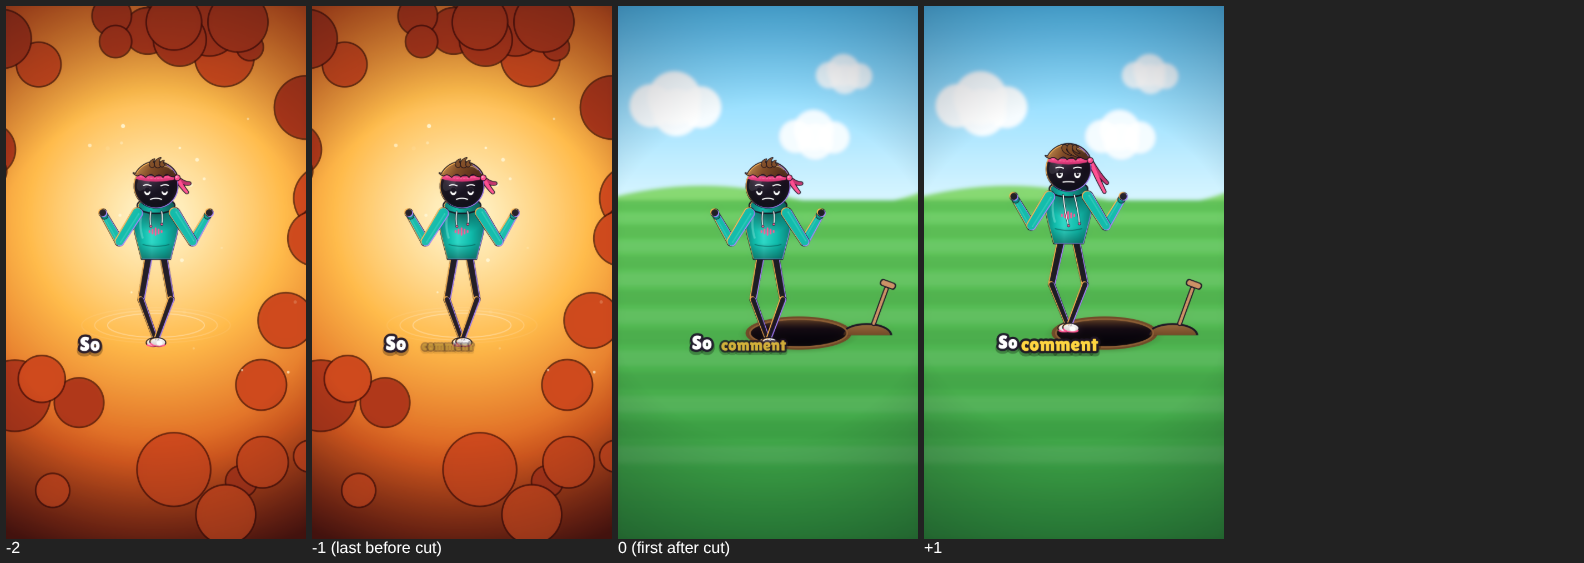
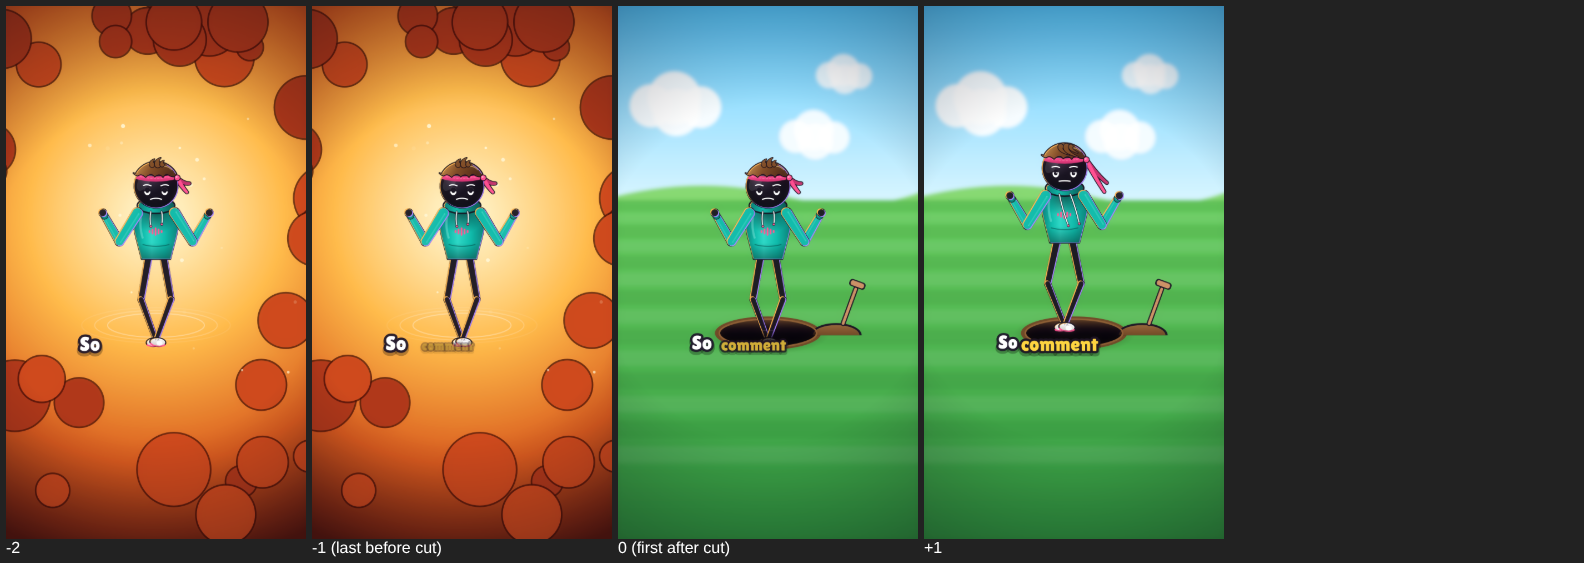
Anatomical elbows, foot-slide/scale-drift/elbow-inward tests, stricter action-beat review
- Rig: elbows always head for the natural (outward) solution; swaps extend and re-bend over ~1.1 s
- Tests: elbow pointing into the chest, feet gliding while standing, slow scale drift (proven to flag the
  owner's screenshots of the old version)
- Recipe: frame-by-frame review of every action beat; actions must complete before the cut
- Earth episode v3 evidence

Claude-Session: https://claude.ai/code/session_01CcPTQgZkcoR6w4hqDBaxUU

Changed region(s): [[0.6187, 0.2416, 0.7734, 0.6341], [0.4331, 0.4831, 0.5878, 0.6341]]

diff --git a/template/src/scenes.ts b/template/src/scenes.ts
@@ -1,7 +1,7 @@
-import {Ctx, softShadow, disc, rad} from './lib/draw';
+import {Ctx, softShadow, disc, rad, lin} from './lib/draw';
 import {v, clamp, smooth, lerp, TAU} from './lib/math';
 import {Rig, Keys, sinw, TIMELINE, hold} from './anim';
-import {DEF, PP, resolvePP, drawPuppet, Sim, geom, ikInfo, closestSign} from './puppet';
+import {DEF, PP, resolvePP, drawPuppet, Sim, geom, ikInfo, elbowScore} from './puppet';
 import {add, mul, rot as rotV} from './lib/math';
 import {drawBG, FLOOR} from './backgrounds';
 import {drawBurst, sparkle, steamPuff} from './props';
@@ -57,7 +57,7 @@ const scrollAt = (t: number) => { const f = clamp(t * 60, 0, SCROLL.length - 1.0
 // ------------------------------------------------------------ 1. HOOK: a hole in a field
 const hook: SceneDef = (() => {
   const keys: Keys<PP> = [
-    [0, {x: 330, y: 770, ...STAND, ...NEUTRAL, ...HIPS, smile: 0.8, ex: 6, hx: 6}, 'step'],
+    [0, {x: 290, y: 770, ...STAND, ...NEUTRAL, ...HIPS, smile: 0.8, ex: 6, hx: 6}, 'step'],
     [1.4, {...HIPS, brow: 0.4}], [2.4, {iRx: 160, iRy: -60, hr: 0.12, ex: 7, ey: 4, brow: 0.7, smile: 0.3}],
     [K.three - 2.2, hold('iRx', 'iRy', 'hr', 'ex', 'ey', 'brow', 'smile')], [K.three - 1.7, {...WIDE, hr: 0, ey: 0, brow: 0.8, open: 0.3, smile: 0.9}],
   ];
@@ -74,31 +74,38 @@ const hook: SceneDef = (() => {
 const FALLER = {x: 540, y: 900, ...FALL, ...NEUTRAL, s: 0.78};
 /** draw the puppet so anything below the hole's rim is hidden, except what is inside the hole opening */
 function inHoleClip(ctx: Ctx, draw: () => void) {
-  ctx.save(); ctx.beginPath(); ctx.rect(-200, -200, 1480, HOLE.y + 200); ctx.ellipse(HOLE.x, HOLE.y, HOLE.rx - 3, HOLE.ry - 3, 0, 0, TAU); ctx.clip(); draw(); ctx.restore();
+  const {x, y, rx, ry} = HOLE;
+  // 1) the part of him that is down inside the opening, darkened with depth
+  ctx.save(); ctx.beginPath(); ctx.ellipse(x, y, rx - 3, ry - 3, 0, 0, TAU); ctx.clip(); draw();
+  ctx.fillStyle = lin(ctx, 0, y - ry * 0.2, 0, y + ry, [[0, 'rgba(5,3,10,0)'], [0.5, 'rgba(5,3,10,0.75)'], [1, 'rgba(5,3,10,0.98)']]); ctx.fillRect(x - rx, y - ry, rx * 2, ry * 2);
+  ctx.restore();
+  // 2) the part still above the far rim
+  ctx.save(); ctx.beginPath(); ctx.rect(-200, -200, 1480, y - ry * 0.2 + 200); ctx.clip(); draw(); ctx.restore();
+  ctx.lineWidth = 6; ctx.strokeStyle = '#8a5a34'; ctx.beginPath(); ctx.ellipse(x, y, rx, ry, 0, 0.05, Math.PI - 0.05); ctx.stroke();   // near rim in front of him
 }
 const countdown: SceneDef = (() => {
   const t0 = S('countdown').t0, J = K.jump;
   // crouch arms bend the SAME way as the falling pose, so the arm swing never passes through itself
-  const crouch = {iLw: 0, iRw: 0, aLa: -34, aLb: -62, aRa: 34, aRb: 62, lLa: -30, lLb: 30, lRa: 30, lRb: -30, y: 816, brow: 0.6, smile: 0.4};
+  const crouch = {iLw: 0, iRw: 0, aLa: -34, aLb: -62, aRa: 34, aRb: 62, lLa: -30, lLb: 30, lRa: 30, lRb: -30, y: 816, x: 300, s: 0.9, brow: 0.6, smile: 0.4};   // x/s pinned: no sliding or shrinking while he waits
   const keys: Keys<PP> = [
-    [t0, {x: 330, y: 770, ...STAND, ...NEUTRAL, ...WIDE, smile: 0.9, brow: 0.8, open: 0.3}, 'step'],
+    [t0, {x: 290, y: 770, ...STAND, ...NEUTRAL, ...WIDE, smile: 0.9, brow: 0.8, open: 0.3}, 'step'],
     [t0 + 0.4, {brow: 0.6, open: 0}],
-    [K.three - 0.3, {x: 430, ...HIPS, smile: 0.8}], [K.one, hold('x', 'iLw', 'iRw', 'iLx', 'iLy', 'iRx', 'iRy', 'aLa', 'aLb', 'aRa', 'aRb', 'lLa', 'lLb', 'lRa', 'lRb', 'y')],
+    [K.three - 0.3, {x: 300, s: 0.9, ...HIPS, smile: 0.8}], [K.one, hold('x', 'iLw', 'iRw', 'iLx', 'iLy', 'iRx', 'iRy', 'aLa', 'aLb', 'aRa', 'aRb', 'lLa', 'lLb', 'lRa', 'lRb', 'y')],
     [K.one + 0.5, crouch], [J - 0.02, crouch, 'lin'],
-    [J + 0.28, {x: 560, y: 760, s: 0.84, ...FALL, open: 1, es: 1, smile: 1, brow: 0.9}, 'out'],
-    [J + 0.5, {x: FALLER.x, y: FALLER.y, s: FALLER.s}],
+    [J + 0.24, {x: 440, y: 730, s: 0.84, ...FALL, open: 1, es: 1, smile: 1, brow: 0.9}, 'out'],   // up and over the rim
+    [J + 0.5, {x: FALLER.x, y: 1070, s: FALLER.s}, 'lin'],                                       // ...and straight down INTO the hole (waist-deep at the cut)
   ];
   return {
     id: 'countdown', rig: new Rig(DEF, keys), cam: GCAM,
     proc: (t, p) => { if (t < K.one) p.y += 2.5 * loopw(t, 2.4) - 26 * (bump(t, K.three, 0.3) + bump(t, K.two, 0.3)); },
     draw: (ctx, t, p, sim) => {
       drawBG(ctx, 'field'); holeBack(ctx); intoHole(ctx, () => {});
-      if (t > J + 0.36) inHoleClip(ctx, () => drawPuppet(ctx, p, sim, t)); else { shadow(ctx, p.x); drawPuppet(ctx, p, sim, t); }
+      if (t > J + 0.34) inHoleClip(ctx, () => drawPuppet(ctx, p, sim, t)); else { shadow(ctx, p.x); drawPuppet(ctx, p, sim, t); }
       // 3-2-1 to the right of his head, each gone before the next appears
       const nums: [string, number, number][] = [['3', K.three, K.two], ['2', K.two, K.one], ['1', K.one, J]];
       for (const [n, ta, tb] of nums) { const on = t >= ta && t < Math.min(ta + 0.9, tb - 0.06); bigWord(ctx, n, 760, 430, 220, on ? Math.min(1, (t - ta) / 0.35) + 1e-3 : 0, n === '1' ? '#ff5c9d' : '#ffd23f'); }
     },
-    hud: (ctx, t) => { const dj = t - J; if (dj > 0 && dj < 0.9) { ctx.save(); ctx.globalAlpha = 1 - smooth((t - J - 0.55) / 0.3); bigWord(ctx, 'JUMP!', 540, 330, 150, Math.min(1, dj / 0.18), '#ff5c9d', -0.06); ctx.restore(); } },
+    hud: (ctx, t) => { const dj = t - J; if (dj > 0 && dj < 0.9) { ctx.save(); ctx.globalAlpha = 1 - smooth((t - J - 0.55) / 0.3); bigWord(ctx, 'JUMP!', 540, 300, 150, Math.min(1, dj / 0.18), '#ff5c9d', -0.06); ctx.restore(); } },
   };
 })();
 
@@ -135,7 +142,7 @@ function tunnelHud(ctx: Ctx, t: number) {
   if (spA > 0.001) speedo(ctx, 800, 420, speedAt(t), spA);
   const k = (t - K.sun) / 0.4, out = fadeOut(t, K.sun + 1.6, 0.35);
   if (k > 0 && out > 0.001) { ctx.save(); ctx.globalAlpha = out; ctx.translate(290, 1100); ctx.scale(0.45, 0.45); drawBurst(ctx, '= THE SUN', 0, 0, Math.min(1, k), '#ffd23f'); ctx.restore(); }
-  const dj = t - K.jump; if (dj > 0 && dj < 0.9) { ctx.save(); ctx.globalAlpha = fadeOut(t, K.jump + 0.55, 0.3); bigWord(ctx, 'JUMP!', 540, 330, 150, 1, '#ff5c9d', -0.06); ctx.restore(); }
+  const dj = t - K.jump; if (dj > 0 && dj < 0.9) { ctx.save(); ctx.globalAlpha = fadeOut(t, K.jump + 0.55, 0.3); bigWord(ctx, 'JUMP!', 540, 300, 150, 1, '#ff5c9d', -0.06); ctx.restore(); }
 }
 function tunnelExtras(ctx: Ctx, t: number) {
   insetAt(ctx, t);
@@ -158,7 +165,8 @@ function tunnelExtras(ctx: Ctx, t: number) {
 // facial beats follow the narration; every change eases over ~0.35 s (never on a cut)
 const ez = (t: number) => t + 0.35;
 const fall = tunnelScene('fall', [
-  [TS, {...FALLER, open: 1, es: 1, smile: 1, brow: 0.9}, 'step'],
+  [TS, {...FALLER, y: 1070, open: 1, es: 1, smile: 1, brow: 0.9}, 'step'],
+  [TS + 0.1, {y: 1105}, 'out'], [TS + 0.85, {y: FALLER.y}],                                     // still plunging, then the camera catches up
   [TS + 0.6, {open: 1, es: 0, ew: 1.2, pr: 5.5, brow: 1, smile: 0.2}],
   [K.fall + 1.5, {open: 0.7, smile: 0.6, brow: 0.8}],
   [ez(K.glow), {open: 0.6, ew: 1.15, pr: 6, brow: 0.9, smile: -0.2, sweat: 0.6}],
@@ -181,13 +189,13 @@ const pop: SceneDef = (() => {
     [t0, {...FALLER, open: 0.6, ew: 1.15, brow: 0.8, smile: 0.6}, 'step'],
     [t0 + 0.45, {y: standY - 170, es: 1, open: 1, smile: 1, brow: 0.9}, 'out'],
     [t0 + 1.15, {y: standY - 150}], [t0 + 1.75, {y: standY, ...STAND, ...WIDE, x: 520, es: 0, open: 0.3, smile: 1}, 'in'],
-    [K.nz - 0.2, {iLw: 1, iRw: 1, iLx: -104, iLy: -48, iRx: 300, iRy: -120, ex: 7, hr: 0.1, smile: 0.9, open: 0}],   // point out at the sign (arm extended)
-    [FB - 0.35, {...WIDE, ex: 0, hr: 0, brow: 0.7, smile: 0.7}],
+    [K.nz - 0.2, {iLw: 1, iRw: 1, iLx: -104, iLy: -48, iRx: 330, iRy: 60, ex: 7, ey: 4, hr: 0.1, smile: 0.9, open: 0}],   // point straight at the sign (down-right, arm extended)
+    [FB - 0.35, {iLw: 0, iRw: 0, aLa: -22, aLb: -34, aRa: 22, aRb: 34, ex: 0, ey: 0, hr: 0, brow: 0.7, smile: 0.7}],   // arms drop to his sides (same bend as the hop's falling pose)
     [FB + 0.05, {y: standY + 30, lLa: -25, lLb: 25, lRa: 25, lRb: -25}],
     [FB + 0.3, {y: standY - 90, x: 540, ...FALL, open: 1, es: 1, smile: 1, brow: 0.9}, 'out'],
-    [T1, {y: FALLER.y, x: FALLER.x, s: FALLER.s}, 'in'],
+    [T1, {y: 1070, x: FALLER.x, s: FALLER.s}, 'lin'],                       // straight down INTO the islet hole (waist-deep at the cut)
   ];
-  const clipped = (t: number) => t < t0 + 0.35 || t > FB + 0.38;
+  const clipped = (t: number) => t < t0 + 0.35 || t > FB + 0.3;
   return {
     id: 'pop', rig: new Rig(DEF, keys), cam: GCAM,
     proc: (t, p) => { if (t > t0 + 1.9 && t < FB - 0.4) p.y += 2.2 * loopw(t, 2.4) * smooth((t - t0 - 1.9) / 0.5) * (1 - smooth((t - FB + 0.9) / 0.5)); },
@@ -210,7 +218,8 @@ const uY = (t: number) => Math.cos(tauY(t) * Math.PI);
 const yoyoSpeed = (t: number) => Math.abs(Math.sin(tauY(t) * Math.PI));
 const yoyoScroll = (t: number) => 1500 * (1 - Math.cos(tauY(t) * Math.PI)) * 0.5;   // walls rush one way, then back: continuous every pass
 const yoyo = tunnelScene('yoyo', [
-  [S('yoyo').t0, {open: 1, es: 1, smile: 1, brow: 0.9}],
+  [S('yoyo').t0, {y: 1070, open: 1, es: 1, smile: 1, brow: 0.9}, 'step'],
+  [S('yoyo').t0 + 0.1, {y: 1105}, 'out'], [S('yoyo').t0 + 0.85, {y: FALLER.y}],      // still plunging, then the camera catches up
 ], (ctx, t) => {
   globe(ctx, uY(t), 1, Array.from({length: 10}, (_, k) => uY(t - (10 - k) * 0.03)));
   const trips = Math.floor(tauY(t)) + 1, ta = smooth((t - S('yoyo').t0 - 0.3) / 0.3) * (1 - smooth((t - S('stuck').t0 + 0.5) / 0.3));
@@ -250,11 +259,11 @@ const stuck: SceneDef = (() => {
 // ------------------------------------------------------------ 11. OUTRO -> LOOP: he pops back up out of the hole in the field and ends in EXACTLY the opening pose
 const outro: SceneDef = (() => {
   const t0 = S('outro').t0, D = TIMELINE.duration;
-  const START = {x: 330, y: 770, ...STAND, ...NEUTRAL, ...HIPS, smile: 0.8, ex: 6, hx: 6};    // == hook frame 0
+  const START = {x: 290, y: 770, ...STAND, ...NEUTRAL, ...HIPS, smile: 0.8, ex: 6, hx: 6};    // == hook frame 0
   const keys: Keys<PP> = [
     [t0, {x: FALLER.x, y: FALLER.y, s: FALLER.s, ...SHRUG, rot: 0, hr: 0}, 'step'],
-    [t0 + 0.32, {y: 700, x: 470, s: 0.84, smile: 0.5, eye: 1, brow: 0.3, tilt: 0, lLa: -18, lLb: 26, lRa: 16, lRb: -24}, 'out'],
-    [t0 + 0.75, {x: 330, y: 770, s: 0.9}, 'in'],
+    [t0 + 0.32, {y: 690, x: 420, s: 0.84, smile: 0.5, eye: 1, brow: 0.3, tilt: 0, lLa: -18, lLb: 26, lRa: 16, lRb: -24}, 'out'],
+    [t0 + 0.75, {x: 290, y: 770, s: 0.9}, 'in'],
     [t0 + 0.8, {...STAND}],                                 // arms settle on their own smooth curve (not the landing's fast ease)
     [t0 + 1.4, {...START, smile: 0.9, brow: 0.4}],
     [Math.max(K.your - 0.1, t0 + 1.9), {iRx: 160, iRy: -60, hr: 0.12, ex: 7, ey: 4, brow: 0.7, smile: 0.6}],
@@ -289,29 +298,33 @@ function rawPose(t: number): PP {
 // ---- time-continuous IK elbow choice: precomputed once (deterministic for any render order), two passes so the
 //      loop seam (end -> start) uses the same elbow solution on both sides
 const IKSR = 240;
-let IKSIGN: Int8Array | null = null;
+let IKSIGN: Float32Array | null = null;
+// Elbow solution per arm, as a continuous value m in [-1, 1]. It always heads for the ANATOMICALLY natural
+// solution (elbow out to the side), with hysteresis so it never chatters, and glides there over ~1.1 s
+// instead of snapping, so a changing hand target can never leave the elbow pointing into the chest.
 function ikSigns() {
   if (IKSIGN) return IKSIGN;
-  const n = Math.ceil(TIMELINE.duration * IKSR) + 2, a = new Int8Array(n * 2);
-  let prev: [number, number] = [0, 0], prevW: [number, number] = [0, 0];
+  const n = Math.ceil(TIMELINE.duration * IKSR) + 2, a = new Float32Array(n * 2);
+  const m: [number, number] = [0, 0], tgt: [number, number] = [0, 0], prevW: [number, number] = [0, 0];
+  const rate = 2 / 1.1 / IKSR;   // a full elbow swap (bent -> straight -> bent the other way) takes ~1.1 s
   for (let pass = 0; pass < 2; pass++) {
     for (let i = 0; i < n; i++) {
       const t = Math.min(i / IKSR, TIMELINE.duration - 1e-4), p = rawPose(t);
       for (const side of [-1, 1] as const) {
         const j = side < 0 ? 0 : 1, k = ikInfo(p, side);
-        let sg: number;
-        if (k.w < 0.001) sg = prev[j] || k.pref;
-        else if (prevW[j] < 0.001 || prev[j] === 0) sg = closestSign(p, side);
-        else if (k.A < 4 && k.pref !== prev[j]) sg = k.pref;     // only switch when the arm is straight (invisible)
-        else sg = prev[j];
-        a[i * 2 + j] = sg; prev[j] = sg; prevW[j] = k.w;
+        const sc1 = elbowScore(p, side, k.s1.E), sc2 = elbowScore(p, side, k.s2.E);
+        const best = sc1 >= sc2 ? 1 : -1;
+        if (k.w < 0.001 || prevW[j] < 0.001 || tgt[j] === 0) { tgt[j] = best; if (k.w < 0.05) m[j] = best; }   // fading in from FK: start natural
+        else if ((tgt[j] > 0 ? sc2 : sc1) > (tgt[j] > 0 ? sc1 : sc2) + 0.15) tgt[j] = -tgt[j];                   // hysteresis
+        m[j] += Math.max(-rate, Math.min(rate, tgt[j] - m[j]));
+        a[i * 2 + j] = m[j]; prevW[j] = k.w;
       }
     }
   }
   return (IKSIGN = a);
 }
 export function ppAt(t: number): PP {
-  const a = ikSigns(), i = Math.max(0, Math.min(a.length / 2 - 1, Math.round(t * IKSR)));
-  return resolvePP(rawPose(t), [a[i * 2], a[i * 2 + 1]]);
+  const a = ikSigns(), f = Math.max(0, Math.min(a.length / 2 - 1.001, t * IKSR)), i = Math.floor(f), r = f - i;
+  return resolvePP(rawPose(t), [a[i * 2] * (1 - r) + a[i * 2 + 2] * r, a[i * 2 + 1] * (1 - r) + a[i * 2 + 3] * r]);
 }
 void disc; void v; void commentBubble; void followButton; void sinw; void CAMDEF; void clamp; void depthBar;

diff --git a/template/src/puppet.ts b/template/src/puppet.ts
@@ -37,7 +37,17 @@ export function ikInfo(q: PP, side: -1 | 1) {
   const s1 = sol(1), s2 = sol(-1);
   // natural preference: elbow out to the side and a little down
   const score = (E: V) => side * (E.x - sh.x) + 0.35 * (E.y - sh.y);
-  return {w: side < 0 ? q.iLw : q.iRw, A: (A * 180) / Math.PI, s1, s2, pref: score(s1.E) >= score(s2.E) ? 1 : -1};
+  /** arm with the hand pushed `ext` (0..1) of the way out to full reach along the same line: used while the elbow swaps sides,
+   *  so the arm straightens and re-bends (like a real arm) instead of folding through the hand */
+  const at = (sg: number, ext: number) => {
+    // ext = 0: the solved bend; ext = 1: arm straight. The ELBOW ANGLE changes linearly with ext, so the swap moves at an even speed.
+    const beta0 = Math.acos(clamp((a * a + b * b - L * L) / (2 * a * b), -1, 1)), beta = beta0 + (Math.PI - beta0) * ext;
+    const Lx = Math.max(Math.abs(a - b) + 1e-3, Math.sqrt(Math.max(0, a * a + b * b - 2 * a * b * Math.cos(beta))));
+    const Ax = Math.acos(clamp((a * a + Lx * Lx - b * b) / (2 * a * Lx), -1, 1));
+    const E = v(sh.x + a * Math.cos(base + sg * Ax), sh.y + a * Math.sin(base + sg * Ax)), H = add(sh, mul(d, Lx / L));
+    return {E, H};
+  };
+  return {w: side < 0 ? q.iLw : q.iRw, A: (A * 180) / Math.PI, s1, s2, sh, at, pref: score(s1.E) >= score(s2.E) ? 1 : -1};
 }
 const angDiff = (a: number, b: number) => { let d = (b - a) % 360; if (d > 180) d -= 360; if (d < -180) d += 360; return d; };
 /** which solution is closest to the arm's current FK pose (used when IK fades in, so the arm never swings round) */
@@ -57,18 +67,24 @@ export function resolvePP(q: PP, signs?: [number, number]): PP {
   for (const side of [-1, 1] as const) {
     const k = ikInfo(q, side);
     if (k.w < 0.001) continue;
-    const sg = signs ? signs[side < 0 ? 0 : 1] : k.pref;
-    const s = sg > 0 ? k.s1 : k.s2, w = k.w;
+    // m in [-1, 1]: which elbow solution. |m| < 1 means the elbow is swapping sides: the arm extends towards straight
+    // (m = 0 is fully straight) and re-bends the other way, so the joint never folds or snaps.
+    const m = signs ? signs[side < 0 ? 0 : 1] : k.pref, w = k.w, sh = k.sh;
+    const g = k.at(m >= 0 ? 1 : -1, 1 - Math.abs(m));
+    const eI = g.E, hI = g.H;
     // blend JOINT POSITIONS (not angles): angle blending flips direction when FK and IK are ~180 deg apart
-    const sh = add(hip, mul(rot(v(side * SHX, SHY), q.rot), S));
     const ua0 = side < 0 ? q.aLa : q.aRa, fa0 = side < 0 ? q.aLb : q.aRb;
     const eF = add(sh, mul(dir(ua0), UP * S)), hF = add(eF, mul(dir(fa0), FORE * S));
-    const hI = add(s.E, mul(dir(s.fa), FORE * S));
-    const E = v(eF.x + (s.E.x - eF.x) * w, eF.y + (s.E.y - eF.y) * w), Hd = v(hF.x + (hI.x - hF.x) * w, hF.y + (hI.y - hF.y) * w);
+    const E = v(eF.x + (eI.x - eF.x) * w, eF.y + (eI.y - eF.y) * w), Hd = v(hF.x + (hI.x - hF.x) * w, hF.y + (hI.y - hF.y) * w);
     const ua = ang(sub(E, sh)), fa = ang(sub(Hd, E));
     if (side < 0) { p.aLa = ua; p.aLb = fa; } else { p.aRa = ua; p.aRb = fa; }
   }
   return p;
+}
+/** anatomical score of an elbow position: out to the side and a little down is natural; pointing into the chest is not */
+export function elbowScore(q: PP, side: -1 | 1, E: V) {
+  const sh = add(v(q.x, q.y), mul(rot(v(side * SHX, SHY), q.rot), q.s));
+  return (side * (E.x - sh.x) + 0.35 * (E.y - sh.y)) / (UP * q.s);
 }
 
 export function geom(p: PP) {

diff --git a/template/qa/harness.ts b/template/qa/harness.ts
@@ -111,6 +111,28 @@ export async function runQA(opts: {sub?: number; textFrom?: number; textTo?: num
       }
     }
   }
+  // feet gliding across the ground while standing (or slowly shrinking/growing while standing) = authoring bug
+  if (doMotion) {
+    let run = 0, runS = 0;
+    for (let i = 1; i < sk.length; i++) {
+      const a = sk[i - 1], b = sk[i];
+      if (a.scene !== b.scene) { run = 0; runS = 0; continue; }
+      const footY = (q: Sk) => Math.max(q.pts.aL.y, q.pts.aR.y) + 34 * q.s;
+      const grounded = Math.abs(footY(b) - 1153) < 30 && Math.abs(footY(b) - footY(a)) < 1.2;
+      const vx = Math.abs((b.pts.aL.x + b.pts.aR.x) - (a.pts.aL.x + a.pts.aR.x)) / 2 / dts;
+      run = grounded && vx > 25 ? run + dts : 0;
+      if (run > 0.3) { flagOnce('slide', b.t, () => add('foot-slide', 'FAIL', b.t, `feet glide across the ground at ${Math.round(vx)} px/s while he is standing (no walk)`)); run = 0; }
+      const ds = Math.abs(b.s - a.s) / dts;
+      runS = grounded && ds > 0.015 ? runS + dts : 0;
+      if (runS > 0.4) { flagOnce('shrink', b.t, () => add('scale-drift', 'FAIL', b.t, `he slowly ${b.s < a.s ? 'shrinks' : 'grows'} while standing still`)); runS = 0; }
+    }
+  }
+  // anatomy: an elbow must never point INTO the chest (reads as a snapped / broken arm), held or moving
+  if (doMotion) for (const q of sk) for (const [side, sh, el, h] of [[-1, 'shL', 'elL', 'hL'], [1, 'shR', 'elR', 'hR']] as const) {
+    const inward = -side * (q.pts[el].x - q.pts[sh].x) / (156 * q.s);
+    if (inward > 0.25) flagOnce('inw' + el, q.t, () => add('elbow-inward', 'FAIL', q.t, `${side < 0 ? 'left' : 'right'} elbow points into the chest (${Math.round(inward * 100)}% of the upper arm) — looks like a snapped arm`));
+    void h;
+  }
   // limbs crossing through the head/torso centre line wildly (hand passes through face)
   if (doMotion) for (const q of sk) for (const h of ['hL', 'hR']) {
     const d = Math.hypot(q.pts[h].x - q.pts.head.x, q.pts[h].y - q.pts.head.y);

diff --git a/template/src/props4.ts b/template/src/props4.ts
@@ -10,7 +10,7 @@ const label = (ctx: Ctx, s: string, x: number, y: number, size = 34, col = '#fff
 };
 
 // ---------------------------------------------------------------- the hole in the field
-export const HOLE = {x: 650, y: 1178, rx: 175, ry: 50};
+export const HOLE = {x: 540, y: 1178, rx: 175, ry: 50};   // centred under the tunnel framing, so the jump lands IN it
 export function holeBack(ctx: Ctx) {
   const {x, y, rx, ry} = HOLE;
   softShadow(ctx, x, y + 6, rx * 1.25, ry * 1.4, 0.35);

diff --git a/WHAT_IF_DAILY_RECIPE.md b/WHAT_IF_DAILY_RECIPE.md
@@ -108,7 +108,7 @@ The channel is "What If" Daily on TikTok. Every day it posts one roughly 60–65
   - **Script:** the last line leads into the hook question, e.g. "…but before you grab that shovel… ask yourself…" → "What if you dug a hole…?". Put the comment CTA in the second-to-last line ("So comment where YOUR… would come out."). Don't use "follow for more" at the end; that's in the post caption.
   - **Visuals:** the final scene ends in EXACTLY the hook's frame-0 state: same background, position, pose, face and props. Hold it for the last ~0.5 s. Idle motion uses `loopw()`, which has a whole number of cycles over the video, and the camera breathing is periodic over the full duration.
   - **Timing:** `build_timeline.py` sets the duration to a whole number of beats, leaving a 0.4–0.9 s pause from the last word back to the first. The last caption clears 0.12 s before the end.
-- **Arms must look natural.**
+- **Arms must look natural.** The rig now handles elbows anatomically: it always heads for the natural elbow (out to the side), and when it has to swap, the arm extends and re-bends over about 1.1 s.
   - Never author poses that make an elbow rotate through itself. The FK and IK bends on either side of a transition should have the same sign (see the template's crouch, which matches FALL).
   - IK hand targets must be far enough away that the arm reads (pointing: about 300 px out).
   - The rig picks IK elbows from a time-continuous table and blends joint *positions*, so do not bypass `ppAt()`/`resolvePP()`.
@@ -149,8 +149,16 @@ The owner saw unpolished results before: hands rotating unnaturally, unclean tra
    - On-screen elements popping on or off exactly on a cut.
    - One-frame flashes or glitches.
    - The pixel step at the loop seam.
+   - Anatomy: an elbow pointing INTO the chest (reads as a snapped arm), held or moving.
+   - Feet gliding across the ground while standing, and slowly shrinking or growing while standing (authoring slips).
    WARN items must each be looked at and judged deliberate (e.g. arms flinging on "JUMP!").
-2. **`node qa/sheets.mjs`** writes `qa/sheets/cut_XX_*.png` (frames -2, -1, 0, +1 around every cut), `loop.png` (end → start) and `scenes.png`. **Open and look at every sheet.** A cut passes only if, apart from the background, frames -1 and 0 look like consecutive frames of one shot. Also look at 6–10 in-between moments with `qa/moments.mjs` (countdown, big reveals, the twist, the landing, the outro) for odd poses, clutter or messy text.
+   The tests were proven against real bugs: the owner's screenshots of a folded arm and a jump that missed the hole both FAIL them. Never edit a test to pass. Fix the animation.
+2. **`node qa/sheets.mjs`** writes `qa/sheets/cut_XX_*.png` (frames -2, -1, 0, +1 around every cut), `loop.png` (end → start) and `scenes.png`. **Open and look at every sheet.** A cut passes only if, apart from the background, frames -1 and 0 look like consecutive frames of one shot. Then go FRAME BY FRAME through every action beat with `W=172 node qa/moments.mjs t1 t2 …` (6–9 frames 0.05–0.15 s apart): every jump, landing, entering or leaving a hole or door, pointing gesture, and arm change. Check each beat for these:
+   - **Actions visibly complete before the cut.** Jumping into a hole means he is waist-deep in it at the cut, not standing on the rim.
+   - **Gestures aim at their subject.** A point goes at the sign, not into the air.
+   - **Nothing slides or shrinks while he waits.** He doesn't drift toward the target before moving.
+   - **Elbows stay out to the side.** Arms straighten and re-bend rather than folding through the hand.
+   - **Faces and props make sense.**
 3. **`python3 qa/audio_qa.py out/final_loud.wav dl/narration.mp3`** must pass. It checks for clipping, harshness (energy above 6 kHz under 3%), the loop seam's level, click and tone, that there's no fade, and that the last word isn't cut by the loop.
 4. After encoding: **`python3 qa/video_qa.py <final.mp4> out/final_loud.wav`** must pass. It checks 1080×1920, one-frame glitches, the visual loop seam on the real file, and A/V sync.
 5. Save `qa/report.txt` and the cut/loop sheets into `episodes/<date>-<slug>/qa/`, so every posted episode has its test evidence.
